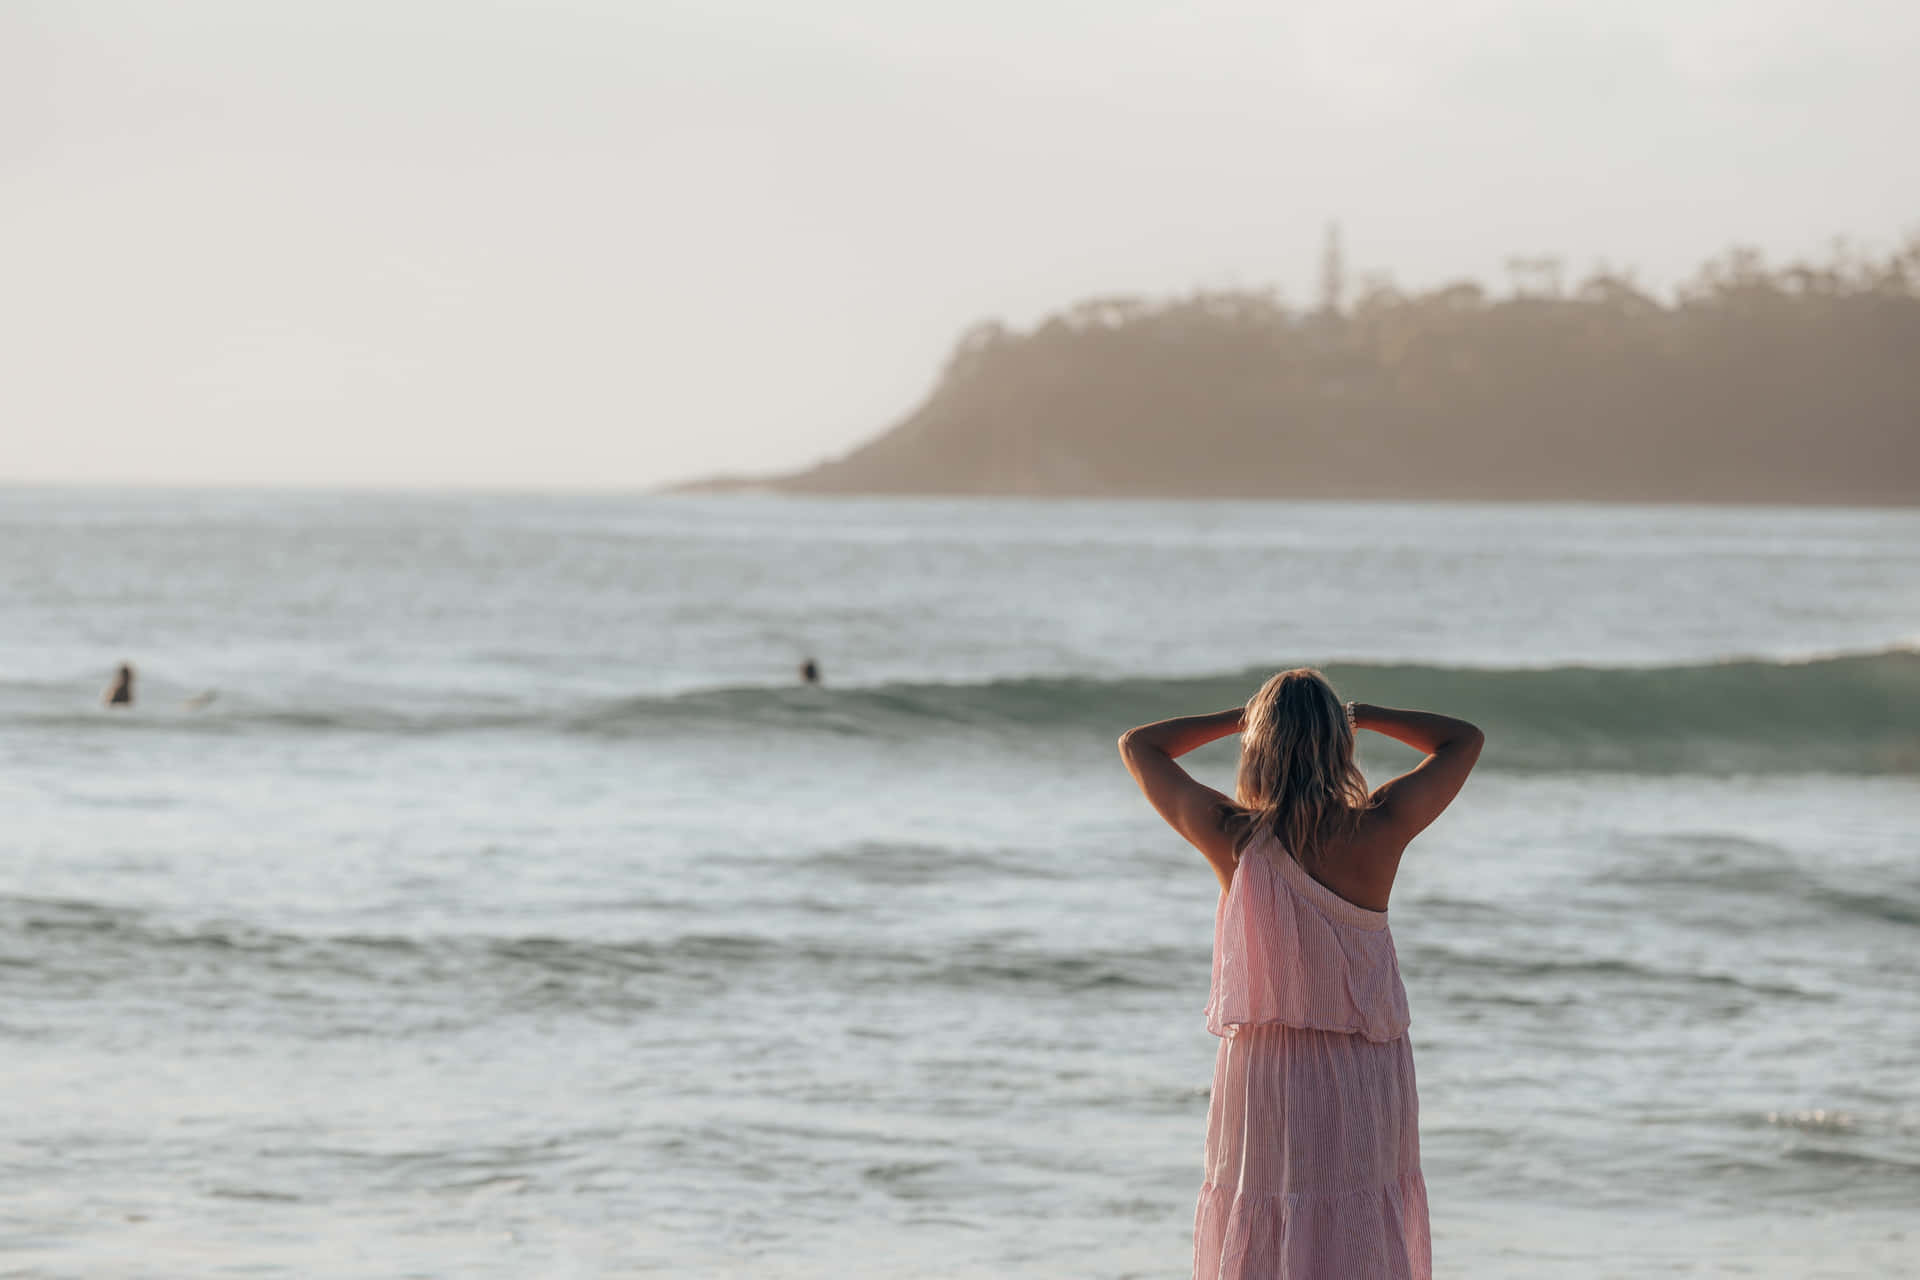
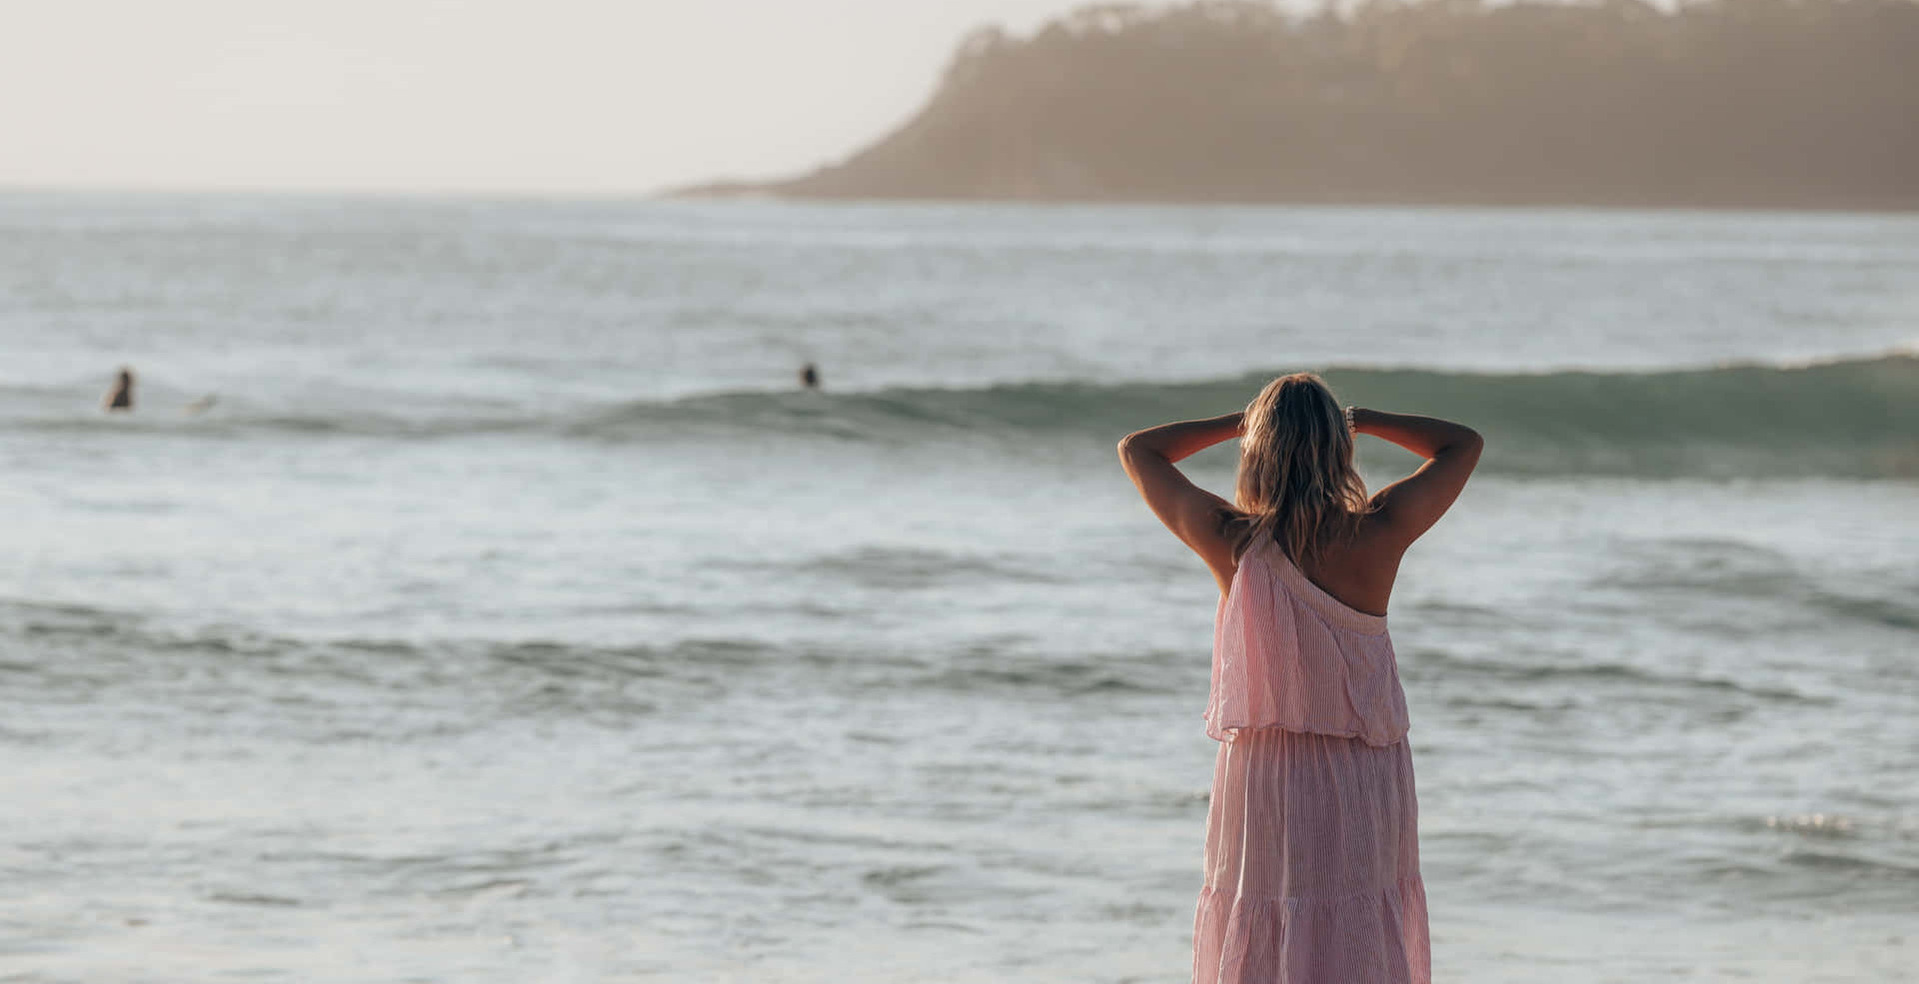
BannerScroller: croped the images and styled it more

diff --git a/src/components/bannerCard.tsx b/src/components/bannerCard.tsx
@@ -25,7 +25,7 @@ export function BannerCard () {
 
             {data.map((card) => 
                 // <div key={card.id} className="bg-['./productImages/hoody1.webp'] bg-cover bg-center">
-                <div key={card.id} className="bg-muted-foreground w-full aspect-[20/9]  rounded-lg flex flex-col justify-between items-start px-8 py-6 relative overflow-hidden"> 
+                <div key={card.id} className="bg-muted-foreground w-full aspect-[20/9]  rounded-lg flex flex-col justify-between items-start px-8 py-9 relative overflow-hidden"> 
                     <div className="absolute top-0 left-0 w-full h-full overflow-hidden flex items-center justify-center">
                         <Image 
                             width={0}
@@ -40,7 +40,7 @@ export function BannerCard () {
                     <h2 className="font-bold text-xl text-white z-10">{card.name}</h2>
 
                     <Link href={'./ss'}>
-                        <Button variant="shadow" color="primary" className="font-bold px-6 text-white">Start Shopping</Button>
+                        <Button variant="shadow" color="primary" className="font-bold px-6">Start Shopping</Button>
                     </Link>
 
                     {/* <div className="absolute right-8 bottom-6">

diff --git a/src/components/bannerScroller.tsx b/src/components/bannerScroller.tsx
@@ -52,14 +52,11 @@ export function BannerScroller() {
             <Image width={0} height={0} sizes="100vw" src={'/banners/lady5.jpg'} alt="banner card" className="w-[100vw] h-auto"/>
           </div>
           <div className="w-[100vw] h-full overflow-hidden flex items-start justify-center">
-            <Image width={0} height={0} sizes="100vw" src={'/banners/baby1.jpg'} alt="banner card" className="w-[100vw] h-auto"/>
+            <Image width={0} height={0} sizes="100vw" src={'/banners/lady10.jpg'} alt="banner card" className="w-[100vw] h-auto"/>
           </div>
           <div className="w-[100vw] h-full overflow-hidden flex items-start justify-center">
             <Image width={0} height={0} sizes="100vw" src={'/banners/man4.jpg'} alt="banner card" className="w-[100vw] h-auto"/>
           </div>
-          {/* <div className="bg-red-500 w-[100vw] h-full"></div>
-          <div className="bg-green-500 w-[100vw] h-full"></div>
-          <div className="bg-sky-500 w-[100vw] h-full"></div> */}
 
         </div>
       </div>

diff --git a/src/app/page.tsx b/src/app/page.tsx
@@ -17,15 +17,15 @@ export default function Home() {
   // const t = useTranslations('HomePage');
 
   return (
-    <div className="mt- w-full overflow-hidden">
+    <div className="w-full overflow-hidden">
 
       <Menu />
       <BannerScroller />
 
-      <div className="px-20">
+      <div className="px-32">
         {/* {t('title')} */}
 
-        {/* <Categories /> */}
+        <Categories />
 
         <ProductsScroll
           name="Most Selling"
